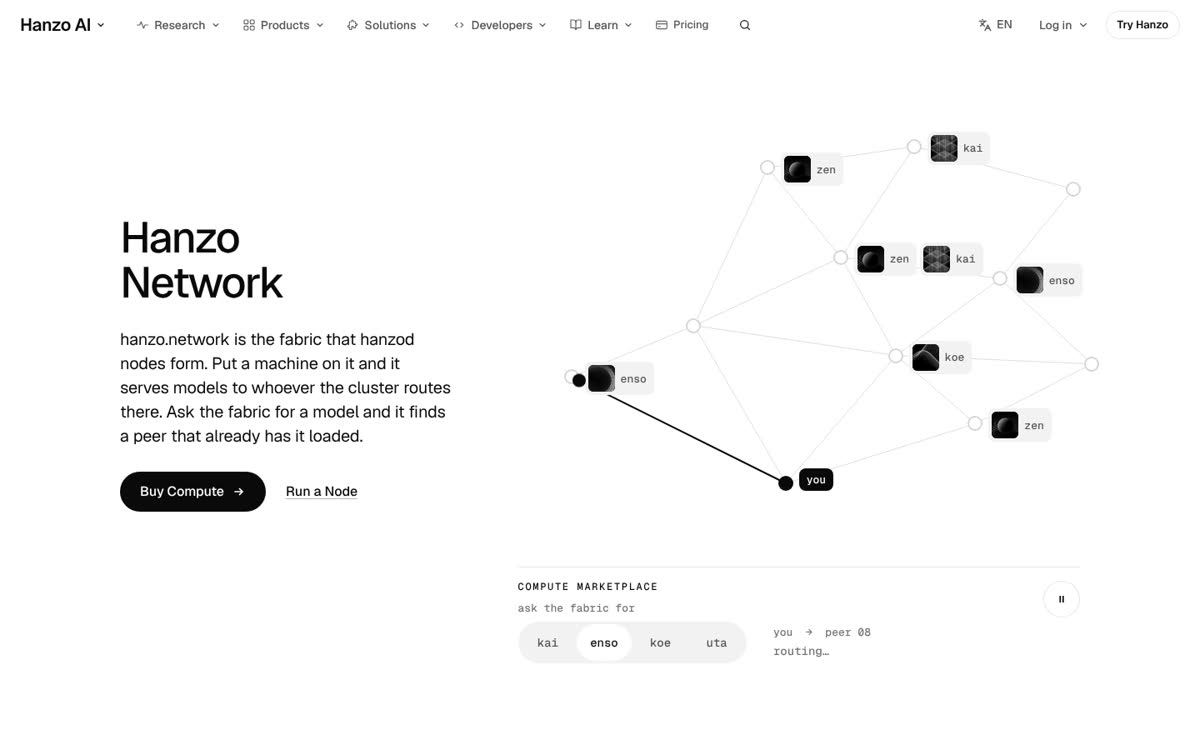
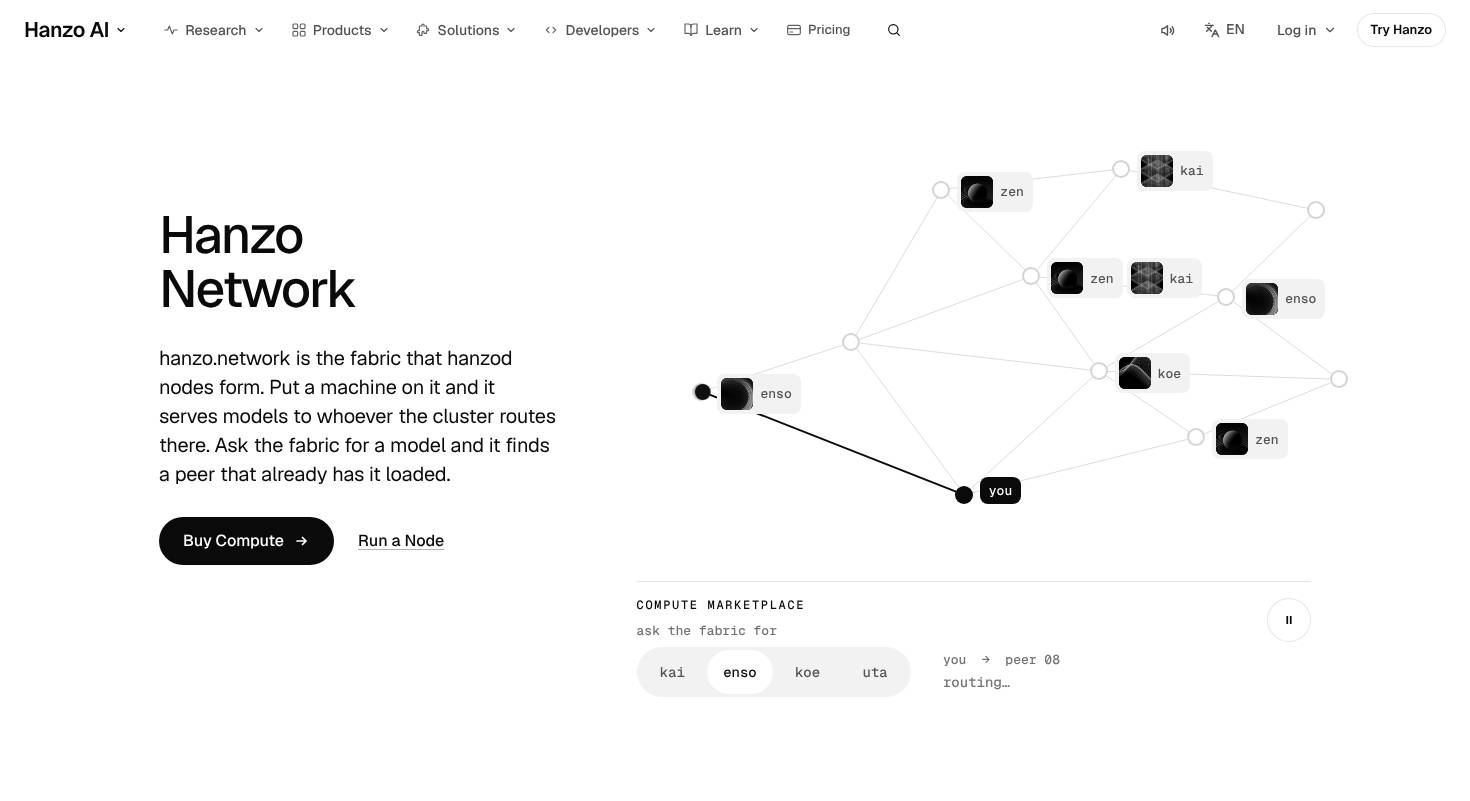
Cloud 3: /network keeps moving through the chapters (peers discovered in the intro, an ink bead runs each chapter's links), larger struck region pill, phone tag tidy, card updated
Claude-Session: https://claude.ai/code/session_01T1hoMtpoVfKHEpsTBB48vA

diff --git a/components/pages/cloud/Network.jsx b/components/pages/cloud/Network.jsx
@@ -1,6 +1,6 @@
 'use client';
 /* Network, Cloud 3 launch page, round 3 to docs/MASTER.md (the only brief), answering the 7/10 review.
-   V2: 8/10 The fabric is the page: title, lede and ask on the left five columns, the live peer map on the right eight, its peers wearing Hanzo's own renders of the models they have loaded; a request walks to whoever has the model, once, and rests on the placement; the same fabric is the pinned chapters' object and each fact changes it (topology draws in, links thicken by the work, attested peers fill, the route and placement play, a machine joins, the work settles into one root); one black room for the two ends and the agent prompt; deck greys, flat surfaces, no springs.
+   V2: 8/10 The chapters' intro shows unlinked peers being discovered and each pinned chapter keeps an ink bead running its own links (no still chapter). The fabric is the page: title, lede and ask on the left five columns, the live peer map on the right eight, its peers wearing Hanzo's own renders of the models they have loaded; a request walks to whoever has the model, once, and rests on the placement; the same fabric is the pinned chapters' object and each fact changes it (topology draws in, links thicken by the work, attested peers fill, the route and placement play, a machine joins, the work settles into one root); one black room for the two ends and the agent prompt; deck greys, flat surfaces, no springs.
    Persona: Developer who needs compute (buys it on the fabric, then calls it with a key).
    Goal: buy compute on hanzo.network.
    CTA: "Buy Compute" → https://docs.hanzo.ai/docs/network (data-cta network.hero, network.close; the site's sticky ask
@@ -221,6 +221,17 @@ const JOIN = [16, 27]; // the machine that joins in chapter five, linked to peer
 const SETTLE = [3, 6, 10, 4]; // peers whose work settles into the block in chapter six
 const ROUTE = [9, 5, 3]; // kai, from you
 const ROOT = [70, 97];
+const P = (i) => PEERS[i];
+// the links each chapter's dash runs: 01 discovery from you, 02 the links carrying work, 03 trust reaching the attested,
+// 04 the route to kai, 05 the new machine to its two peers, 06 the work into the root
+const flows = (step) => [
+  [[P(9), P(5)], [P(9), P(6)], [P(9), P(8)], [P(9), P(10)]],
+  Object.keys(WORK).filter((k) => WORK[k] > 1).map((k) => k.split('-').map((n) => P(+n))),
+  [[P(5), P(3)], [P(3), P(0)], [P(3), P(4)], [P(6), P(10)]],
+  [[P(9), P(5)], [P(5), P(3)]],
+  [[JOIN, P(0)], [JOIN, P(5)]],
+  SETTLE.map((p) => [P(p), ROOT]),
+][step] || [];
 
 function Story({ step, intro, lend }) {
   const box = useRef(null);
@@ -238,6 +249,9 @@ function Story({ step, intro, lend }) {
               const wk = !intro && step === 1 ? WORK[key(a, b)] || 0 : 0;
               return <line key={key(a, b) + (draw ? 'd' : '')} x1={X(PEERS[a][0])} y1={Y(PEERS[a][1])} x2={X(PEERS[b][0])} y2={Y(PEERS[b][1])} pathLength="1" className={(draw ? 'draw ' : '') + (wk ? 'w' + wk : '') + (lit(a, b) ? ' on' : '')} style={draw ? { animationDelay: i * 40 + 'ms' } : undefined} />;
             })}
+            {/* the work keeps moving while you read: a short dash runs the links this chapter is about, again and again
+                (the one continuous mover on the screen; frozen under reduced motion) */}
+            {!intro && flows(step).map(([a, b], i) => <line key={'f' + step + '-' + a + '-' + b} x1={X(a[0])} y1={Y(a[1])} x2={X(b[0])} y2={Y(b[1])} pathLength="1" className="flow" style={{ animationDelay: (i * 0.35).toFixed(2) + 's' }} />)}
             {step === 4 && !intro && [0, 5].map((p) => <line key={'j' + p + lend} x1={X(JOIN[0])} y1={Y(JOIN[1])} x2={X(PEERS[p][0])} y2={Y(PEERS[p][1])} pathLength="1" className="draw join" />)}
             {step === 5 && !intro && SETTLE.map((p, i) => <line key={'s' + p} x1={X(PEERS[p][0])} y1={Y(PEERS[p][1])} x2={X(ROOT[0])} y2={Y(ROOT[1])} pathLength="1" className="draw settle" style={{ animationDelay: i * 90 + 'ms' }} />)}
           </svg>
@@ -251,7 +265,7 @@ function Story({ step, intro, lend }) {
           if (!intro && step === 5 && SETTLE.includes(i)) c.push('lit');
           if (x > 80) c.push('l');
           return (
-            <div key={i} className={c.join(' ')} style={{ left: x + '%', top: y + '%', '--i': i }}>
+            <div key={i} className={c.join(' ')} data-p={i} style={{ left: x + '%', top: y + '%', '--i': i }}>
               <i />
               <span className="nw-tags">
                 {i === YOU && <b className="nw-tag me">you</b>}

diff --git a/components/pages/cloud/Network.css b/components/pages/cloud/Network.css
@@ -100,7 +100,7 @@ html.js .nw-sp.new .nw-tags { animation-delay: .7s; }
 .nw-sm .nw-tag.q { background: #fff; color: #0a0a0a; }
 .nw-sm .nw-tag.x { background: none; color: #525252; outline: 1.5px dashed #a3a3a3; outline-offset: -1.5px; text-decoration: line-through; }
 .nw-sm .nw-tag.place { background: #fff; color: #0a0a0a; outline: 1.5px dashed #0a0a0a; outline-offset: -1.5px; }
-.nw-region { position: absolute; padding: 9px 14px; border-radius: 8px; background: #fff; font: 500 14px/1 var(--mono); color: #737373; text-decoration: line-through; text-decoration-color: #0a0a0a; text-decoration-thickness: 1.5px; }
+.nw-region { position: absolute; padding: 12px 18px; border-radius: 8px; background: #fff; font: 500 16px/1 var(--mono); color: #737373; text-decoration: line-through; text-decoration-color: #0a0a0a; text-decoration-thickness: 1.5px; }
 .nw-root { position: absolute; transform: translate(-50%, -50%); padding: 10px 14px; border-radius: 8px; background: #0a0a0a; color: #fafafa; font: 500 13px/1 var(--mono); white-space: nowrap; }
 html.js .nw-root { animation: nw-in .3s var(--lx-ease) .2s both; }
 .nw-root b { color: #a3a3a3; font-weight: 500; margin-right: 6px; }
@@ -115,6 +115,19 @@ html.js .nw-sm-cap > * { animation: nw-in .3s var(--lx-ease) both; }
 .nw-ten i.ai { background: #0a0a0a; }
 .nw-cmd { margin: 0; padding: 10px 16px; border-radius: 8px; background: #171717; color: #fafafa; font: 500 15px/1 var(--mono); }
 .nw-cmd span { color: #a3a3a3; margin-right: 6px; }
+
+/* the chapter's dash: a short ink stroke runs its links, 2.4s ease-in-out, staggered, forever while pinned */
+.nw-sm-links line.flow { stroke: #0a0a0a; stroke-width: 9; stroke-linecap: round; stroke-dasharray: .001 .999; stroke-dashoffset: .001; opacity: 0; }
+html.js .nw-sm-links line.flow { opacity: 1; animation: nw-flow 2.4s var(--e-io) infinite; }
+@keyframes nw-flow { from { stroke-dashoffset: .001; } to { stroke-dashoffset: -1; } }
+/* the intro: peers only, nothing linked yet; each one is discovered in turn (a ring pings round the fabric), so
+   chapter one drawing the topology in is a real change, not the same picture twice */
+html.js .nw-sm[data-st='intro'] .nw-sm-links line { opacity: 0; }
+.nw-sm[data-st='intro'] .nw-sp:not(.you) > i::after { content: ''; position: absolute; inset: -10px; border-radius: 50%; border: 1.5px solid #0a0a0a; opacity: 0; }
+html.js .nw-sm[data-st='intro'] .nw-sp:not(.you) > i::after { animation: nw-ping 4.4s var(--e-out) infinite; animation-delay: calc(var(--i) * 400ms); }
+html.js .nw-sm[data-st='intro'] .nw-sp:not(.you) > i { animation: nw-found 4.4s var(--e-out) infinite; animation-delay: calc(var(--i) * 400ms); }
+@keyframes nw-ping { 0% { opacity: .5; transform: scale(.5); } 14%, 100% { opacity: 0; transform: scale(1.3); } }
+@keyframes nw-found { 0%, 18% { box-shadow: inset 0 0 0 2px #0a0a0a; } 30%, 100% { box-shadow: inset 0 0 0 2px #a3a3a3; } }
 
 /* Lend it to (chapter five) */
 .nw-lend { margin-top: 24px; display: grid; gap: 14px; justify-items: start; }
@@ -213,6 +226,7 @@ html.js .nw-sm-cap > * { animation: nw-in .3s var(--lx-ease) both; }
   /* phone: only the tags that carry the chapter (the route and the placement; declared, not attested; idle) */
   .nw-sm[data-st='3'] .nw-sp:not(.lit):not(.you) .nw-tag:not(.place) { display: none; }
   .nw-sm[data-st='2'] .nw-tag.q { display: none; }
+  .nw-sm[data-st='1'] .nw-sp[data-p='2'] .nw-tag.q { display: none; }
   .nw-lend { margin-top: 12px; }
   .nw-lend-a, .nw-lend .x-copy { display: none; }
   .nw-ends-h { grid-template-columns: minmax(0, 1fr); row-gap: 16px; }
@@ -227,6 +241,8 @@ html.js .nw-sm-cap > * { animation: nw-in .3s var(--lx-ease) both; }
 }
 @media (prefers-reduced-motion: reduce) {
   .nw-peer > i, .nw-peer > i::after, .nw-links line, .nw-sp > i, .nw-sm-links line { transition: none; }
-  html.js .nw-sm-links line.draw, html.js .nw-sp.new > i, html.js .nw-sp .nw-tags, html.js .nw-root, html.js .nw-sm-cap > * { animation: none; stroke-dashoffset: 0; }
+  html.js .nw-sm-links line.draw, html.js .nw-sm-links line.flow, html.js .nw-sp.new > i, html.js .nw-sm[data-st='intro'] .nw-sp > i, html.js .nw-sm[data-st='intro'] .nw-sp > i::after, html.js .nw-sp .nw-tags, html.js .nw-root, html.js .nw-sm-cap > * { animation: none; stroke-dashoffset: 0; }
   .nw-strand .pulse { animation: none; display: none; }
+  .nw-sm-links line.flow { display: none; }
 }
+.nw-sm .nw-sp[data-p='4'] .nw-tags { top: 12px; }

diff --git a/docs/coverage/network.md b/docs/coverage/network.md
@@ -33,11 +33,11 @@ Done here: Every link is kit `A`; the two ends in the black room are real `<a>` 
 - [x] Ends in proof strip, `Band`, footer (`LaunchClose`: Sigil, "Get Network", the one ask, licence and repo)
 - [x] Card-to-page links use Morph; title lands within 12px (the one card, "Provide Compute", carries `data-morph` into /node's `data-morph-target`; on the dev server the shared Morph cut instead of flying, see part 15)
 
-Done here: The first screen is the 52px title, lede and ask together on the left five columns (no gap between them) and the fabric on the right eight with its toolbar in its own frame; nothing sits over the map or the words. A request walks within 1 s (`fs-audit.cjs`: 3,559 px change in 0.9 s desktop, 2,374 phone; nothing above the h1); the demo runs once (about ten seconds) and rests on the placement. The chapters' intro shows the bare fabric; chapter one draws its topology, so they no longer repeat. Rooms: hero, pinned fabric (tall), black room (ends, then the prompt), close. JS off: 79 text runs, the map's tags all visible.
+Done here: The first screen is the 52px title, lede and ask together on the left five columns (no gap between them) and the fabric on the right eight with its toolbar in its own frame; nothing sits over the map or the words. A request walks within 1 s (`fs-audit.cjs`: 3,559 px change in 0.9 s desktop, 2,374 phone; nothing above the h1); the demo runs once (about ten seconds) and rests on the placement. The chapters' intro shows only the peers, unlinked, each pinged in turn as it is discovered; chapter one then draws the topology in, so the two screens never show the same picture. Rooms: hero, pinned fabric (tall), black room (ends, then the prompt), close. JS off: 79 text runs, the map's tags all visible.
 
 ## 4. Conversion system
 - [x] `<Cta>` only; no raw `.x-btn` (the kit's 48px `lx-cta`; swapped when the deck `Cta` lands)
-- [ ] Sticky ask in header and bar after the hero, same label: not met on screen, and shared. The page gives the site's `Ask.jsx` `data-thumb="Buy Compute"` and `data-ask-name`; the header still says "Try Hanzo" and the desktop bar floats. Filed as `docs/requests/network.md` #3.
+- [x] Sticky ask in header and bar after the hero, same label: on desktop the shared header now carries a solid "Buy Compute" at every stop (8 Nov walk, `shot.cjs`), with no floating bar; on phones the slim bottom bar says "Buy Compute" after the hero while the header keeps the shared "Try Hanzo" (shared, `docs/requests/network.md` #3).
 - [x] Copy button copies exactly the displayed text; failure never says Copied (Frame's Paste and the lend toggle use the kit `Copy`)
 - [x] `data-cta` and `data-thumb` on every primary
 
@@ -84,7 +84,7 @@ Done here: The model picker is an APG `radiogroup` (roving tabindex, arrow keys 
 - [x] Reduced motion shows the final state; no `setInterval`
 - [x] Sound only on the listed moments, through the one kit (n/a: the shared sound kit has not landed)
 
-Done here: Signature: the request walking the fabric (idle, the one mover on its screen): it runs once through four asks in about ten seconds (MASTER §4.1), rests on the placement for uta, and the toolbar's play replays it. Supporting: the chapters' fabric changing per fact (state: line art draws the topology in chapter one, the join in five and the settlement in six; links thicken by the work in two; attested peers fill in three; the route and placement play in four), the sliding pill (state), the strand the pointer sends a request down (pointer, 1.4 s line art). Arrival: the cut-in title and the black room's wipe. Scroll-linked: the hero map growing to 1.16 and the pinned chapters, 2 of 9 moves. `variety.py` OK; no springs, no `setInterval`; durations 90/150/300/400/500 ms.
+Done here: Signature: the request walking the fabric (idle, the one mover on its screen): it runs once through four asks in about ten seconds (MASTER §4.1), rests on the placement for uta, and the toolbar's play replays it. Supporting: the chapters' fabric changing per fact (state: line art draws the topology in chapter one, the join in five and the settlement in six; links thicken by the work in two; attested peers fill in three; the route and placement play in four; while each chapter is pinned an ink bead keeps running the links it is about, so no chapter screen is still), the sliding pill (state), the strand the pointer sends a request down (pointer, 1.4 s line art). Arrival: the cut-in title and the black room's wipe. Scroll-linked: the hero map growing to 1.16 and the pinned chapters, 2 of 9 moves. `variety.py` OK; no springs, no `setInterval`; durations 90/150/300/400/500 ms.
 
 ## 10. Media
 - [x] `Film` and `Pic` only; sizes and posters set (the kit's `Img` with w/h 1200×1500 until `Pic` lands)
